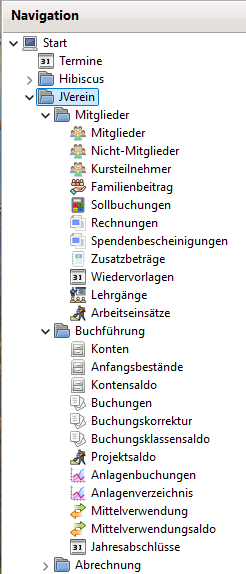
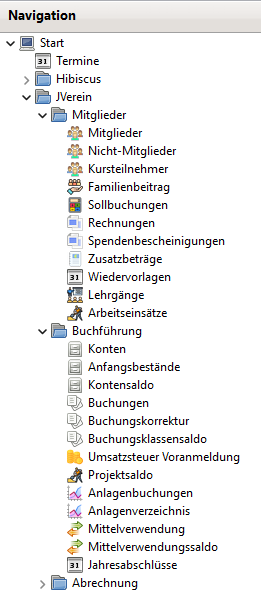
Update fuer 3.1.0

Changed region(s): [[0.0, 0.0, 1.0, 1.0]]

diff --git a/v3.1.x/notes.md b/v3.1.x/notes.md
@@ -9,7 +9,7 @@ Mit 3.0.0 wurde die Versionsnummerierung auf die Art MAJOR.MINOR.PATCH umgestell
 
 ## The Big Ones
 
-### Wirtschaftsplan
+### Steuer Handling
 
 
 
@@ -90,6 +90,12 @@ Die Anzeige von Projekten, Spendenbescheinigungen und Rechnungen/Mahnungen läss
 
 Es lässt sich eine Rechnung über mehrere Sollbuchungen erstellen.
 
+#### Rechnungen Kommentar
+
+Bei der Rechnung lässt sich ein Kommentar setzen der auch in Mails und Formularen benutzt werden kann.
+
+Das Formular und der Kommentar lässt sich bei bestehenden Rechnungen editieren.
+
 #### Neue Buttons bei Druck und Mail Views
 
 Bei den Druck und Mail Views gibt es neu die folgenden Buttons:
@@ -99,9 +105,14 @@ Bei den Druck und Mail Views gibt es neu die folgenden Buttons:
 
 #### Spendenbescheinigungen über das Buchung Kontextmenü erzeugen
 
-Über das Kontextmenü einer Buchung lässt sich direkt eine Geldspendenbescheinigung erzeugen ohne der Notwendigkeit ein Mitglied bzw. Nicht-Mitglied zu erzeugen und ohne eine Sollbuchung zuordnen zu müssen
+Über das Kontextmenü einer Buchung lässt sich direkt eine Geldspendenbescheinigung erzeugen ohne der Notwendigkeit ein Mitglied bzw. Nicht-Mitglied zu erzeugen und ohne eine Sollbuchung zuordnen zu müssen.
+
+#### Differenzfilter mit Limit
+
+In den Filtern für Sollbuchungen und Kontoauszüge lässt sich ein Limit für die Differenz konfigurieren. Bei  Differenz Fehlbetrag werden nur Sollbuchungen bzw. Mitglieder ausgewählt bei denen der Fehlbetrag größer als das Limit ist. Bei Überzahlung nur wenn der über zahlte Betrag größer als das Limit ist.
 
 ## Kleinere Korrekturen und Erweiterungen
 
 * Reports starten in der Fußzeile wieder mit Seite 1 statt mit 0
+* Weitere Filter im Wiedervorlage Liste View
 

diff --git a/v3.1.x/mitglieder/mitgliedskonto.md b/v3.1.x/mitglieder/mitgliedskonto.md
@@ -21,7 +21,9 @@ Im Normalfall sollte die Erstellung der Sollbuchungen nur über die Abrechnung e
 
 ## Liste der Sollbuchungen <a id="mitgliedskontouebersicht"></a>
 
-Es gibt eine zentrale Übersicht über alle Sollbuchungen. Die Sollbuchungen können über einen Zeitraum oder über einen Namen der Mitglieds oder des Zahlers, bzw. Namensfragment gefiltert werden. Zusätzlich kann angegeben werden, ob nur Sollbuchungen mit Differenzen zwischen Soll und Ist \(Offene Posten oder Überzahlungen\) angezeigt werden.
+Es gibt eine zentrale Übersicht über alle Sollbuchungen. Die Sollbuchungen können über einen Zeitraum oder über einen Namen der Mitglieds oder des Zahlers, bzw. Namensfragment gefiltert werden.
+
+Zusätzlich kann angegeben werden, ob nur Sollbuchungen mit Differenzen zwischen Soll und Ist \(Offene Posten oder Überzahlungen\) über dem konfigurierten Limit angezeigt werden. 
 
 Zudem lässt sich filtern ob das Mitglied per Lastschrift zahlt oder eine Mail Adresse hat.
 

diff --git a/SUMMARY.md b/SUMMARY.md
@@ -271,6 +271,7 @@
     * [Buchungskorrektur](v3.1.x/buchf/buchungskorrektur.md)
     * [Anlagenbuchungen](v3.1.x/buchf/anlagenbuchungen.md)
     * [Buchungsklassensaldo](v3.1.x/buchf/buchungsklasse.md)
+    * [Umsatzsteuer Voranmeldung](v3.1.x/buchf/umsatzsteuersaldo.md)
     * [Projektsaldo](v3.1.x/buchf/projekte.md)
     * [Kontensaldo](v3.1.x/buchf/kontensaldo.md)
     * [Mittelverwendung](v3.1.x/buchf/mittelverwendung.md)
@@ -327,6 +328,7 @@
       * [Buchungsarten](v3.1.x/administration/admbuchf/buchungsart.md)
       * [Kontenrahmen Import Export](v3.1.x/administration/admbuchf/kontenrahmen-import-export.md)
       * [Projekte](v3.1.x/administration/admbuchf/projekte.md)
+      * [Steuer](v3.1.x/administration/admbuchf/steuer.md)
     * [Erweitert](v3.1.x/administration/erweitert/README.md)
       *  [Migration](v3.1.x/administration/erweitert/migration.md)
       *  [QIF Datei-Import](v3.1.x/administration/erweitert/qif-import.md)

diff --git a/v3.1.x/administration/einstellungen/buchfuehrung.md b/v3.1.x/administration/einstellungen/buchfuehrung.md
@@ -18,8 +18,12 @@ Unterdrückung nicht gebuchter Buchungsarten in Listen/Auswertungen \(Standard: 
 
 Zeige Kontonummer in der Buchungsliste.
 
-Umsatzsteueroption.
+Umsatzsteueroption (Neustart erforderlich)
+
+Auswahl ob die Steuer über die Buchungsart gesetzt wird oder individuell per Buchung.
 
 Auswahl ob eine feste Zuordnung zwischen Buchungsart und Buchungsklasse existiert oder nicht. Die feste Zuordnung sollte nur bei einem Wechsel des Kontenrahmen passieren und dann beim Wechsel des Geschäftsjahres. Sie auch [Buchungsart](../admbuchf/buchungsart.md).
 
 Beim automatischen Splitten den Verwendungszweck aus den Sollbuchungspositionen übernehmen.
+
+Geprüft Markierung mit Hibiskus synchronisieren.

diff --git a/v3.1.x/druckmail/mail.md b/v3.1.x/druckmail/mail.md
@@ -41,7 +41,7 @@ Der View besitzt folgende Buttons im unteren Bereich:
 * Speichern und erneut versenden: Eine bereits versendete Mail kann bearbeitet und erneut versendet werden
 * Speichern und senden: Speichert die Mail und versendet sie
 
-Über den Button Anlage im Anhang Bereich lässt sie ein Anhang zur Mail auswählen.
+Über den Button Anlage im Anhang Bereich lassen sich ein oder mehrere Anhänge zur Mail auswählen.
 
 Durch einen Klick auf Hinzufügen bei der Liste der Empfänger öffnet sich folgendes Auswahlfenster:
 

diff --git a/v3.1.x/mitglieder/rechnung.md b/v3.1.x/mitglieder/rechnung.md
@@ -55,5 +55,6 @@ Folgende Buttons stehen zu Verfügung:
 
 * Druck und Mail: Wechselt in den Dialog zum Drucken und Mailen der Rechnung, siehe  [Rechnungen](../druckmail/rechnungen.md)
 * Mahnung Druck und Mail: Wechselt in den Dialog zum Drucken und Mailen einer Mahnung zur Rechnung, siehe  [Mahnungen](../druckmail/mahnungen.md)
+* Speichern: Änderungen von Formular und Kommentar werden gespeichert
 
 

diff --git a/v3.1.x/buchf/umsatzsteuersaldo.md b/v3.1.x/buchf/umsatzsteuersaldo.md
@@ -1,0 +1,10 @@
+# Umsatzsteuer Voranmeldung
+
+
+TODO
+
+## Allgemeines
+
+
+
+

diff --git a/v3.1.x/administration/admbuchf/steuer.md b/v3.1.x/administration/admbuchf/steuer.md
@@ -1,0 +1,10 @@
+# Steuer
+
+
+TODO
+
+## Allgemeines
+
+
+
+
